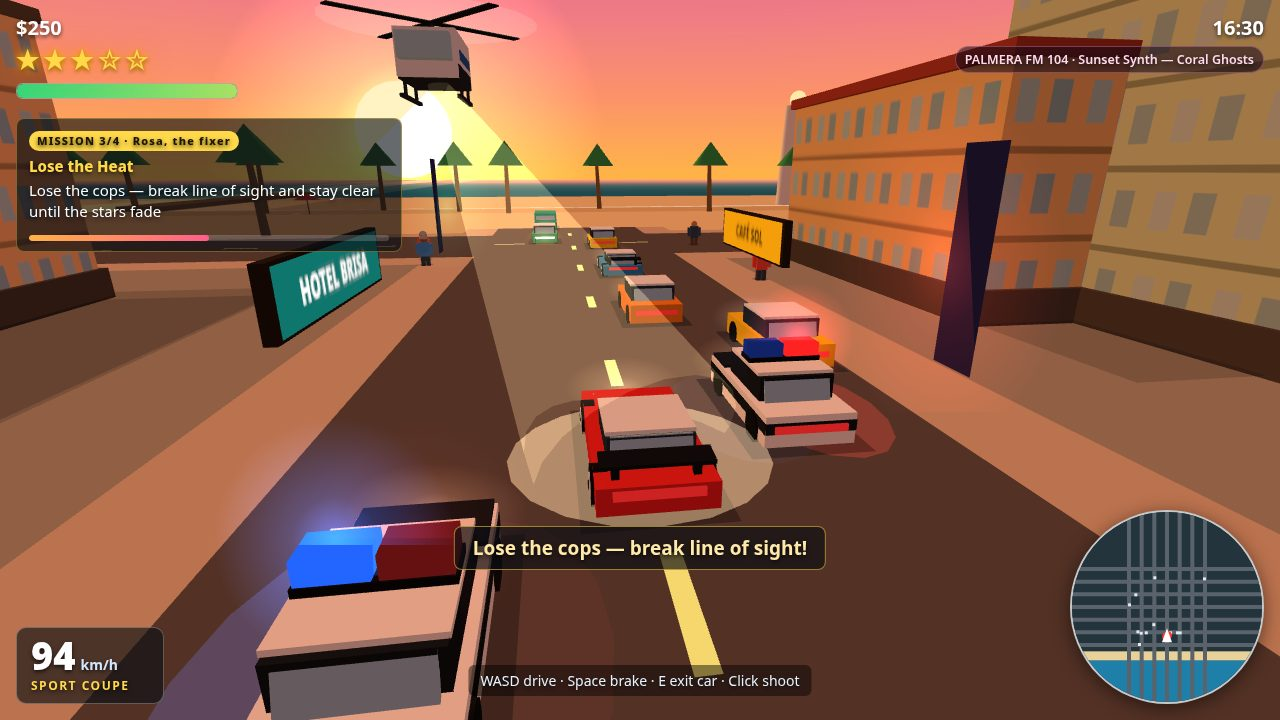
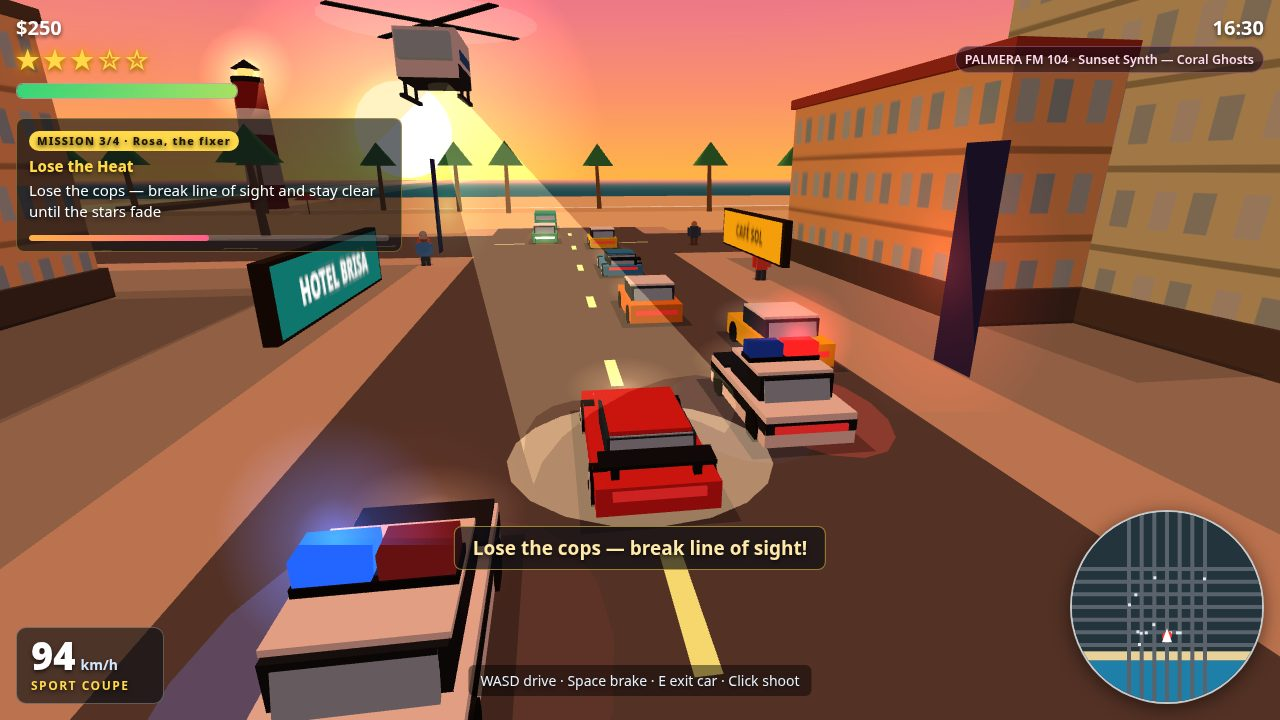
Palmera City v3.1: lighthouse reads at sheet scale (bands + sun-side staging), sport roof body-coloured coupe read

diff --git a/game/src/world.js b/game/src/world.js
@@ -602,17 +602,50 @@ export function createWorld(scene, rng) {
   }
 
   // Lighthouse point on the beach (mission 4 destination) + pier into the sea.
-  const lightMat = new THREE.MeshLambertMaterial({ color: 0xf2ede4 });
-  const tower = new THREE.Mesh(new THREE.CylinderGeometry(2, 2.6, 16, 10), lightMat);
-  tower.position.set(-40, 8, CITY.beachZ + 26);
-  group.add(tower);
+  // v3.1: staged on the sun side (x=+45) so the tower silhouettes against
+  // the bright sunset sky in the cover shot, and banded red/white so it
+  // reads as a lighthouse even at sheet scale. Tower 18 m + lamp room.
+  const LIGHTHOUSE_X = 45;
+  const LIGHTHOUSE_Z = CITY.beachZ + 26;
+  const towerH = 18;
+  const bands = 5;
+  const bandH = towerH / bands;
+  const bandRedMat = new THREE.MeshLambertMaterial({ color: 0x8e1f1f });
+  const bandWhiteMat = new THREE.MeshLambertMaterial({ color: 0xf2ede4 });
+  for (let i = 0; i < bands; i += 1) {
+    const t0 = i / bands;
+    const t1 = (i + 1) / bands;
+    const seg = new THREE.Mesh(
+      new THREE.CylinderGeometry(2.6 - 0.6 * t1, 2.6 - 0.6 * t0, bandH, 10),
+      i % 2 === 0 ? bandRedMat : bandWhiteMat,
+    );
+    seg.position.set(LIGHTHOUSE_X, bandH * (i + 0.5), LIGHTHOUSE_Z);
+    group.add(seg);
+  }
+  // Lamp room: dark base + bright bulb + dark cap, with a small glow sprite
+  // so the light point reads at sheet scale. The bulb stays the `lamp`
+  // mesh so main.js can keep flashing it.
+  const lampRoomMat = new THREE.MeshLambertMaterial({ color: 0x1c1c22 });
+  const lampBase = new THREE.Mesh(new THREE.CylinderGeometry(2.1, 2.1, 0.7, 10), lampRoomMat);
+  lampBase.position.set(LIGHTHOUSE_X, towerH + 0.35, LIGHTHOUSE_Z);
+  group.add(lampBase);
   const lamp = new THREE.Mesh(
-    new THREE.SphereGeometry(1.4, 10, 8),
-    new THREE.MeshBasicMaterial({ color: 0xffe9a8 }),
+    new THREE.SphereGeometry(1.15, 10, 8),
+    new THREE.MeshBasicMaterial({ color: 0xffe27a }),
   );
-  lamp.position.set(-40, 17, CITY.beachZ + 26);
+  lamp.position.set(LIGHTHOUSE_X, towerH + 1.35, LIGHTHOUSE_Z);
   group.add(lamp);
-  colliders.push({ minX: -43, maxX: -37, minZ: CITY.beachZ + 23, maxZ: CITY.beachZ + 29 });
+  const lampCap = new THREE.Mesh(new THREE.ConeGeometry(1.9, 1.3, 10), lampRoomMat);
+  lampCap.position.set(LIGHTHOUSE_X, towerH + 2.5, LIGHTHOUSE_Z);
+  group.add(lampCap);
+  const lampGlow = new THREE.Sprite(new THREE.SpriteMaterial({
+    map: glowTexture(), blending: THREE.AdditiveBlending,
+    transparent: true, depthWrite: false, fog: false,
+  }));
+  lampGlow.position.set(LIGHTHOUSE_X, towerH + 1.35, LIGHTHOUSE_Z);
+  lampGlow.scale.set(14, 14, 1);
+  group.add(lampGlow);
+  colliders.push({ minX: LIGHTHOUSE_X - 3, maxX: LIGHTHOUSE_X + 3, minZ: LIGHTHOUSE_Z - 3, maxZ: LIGHTHOUSE_Z + 3 });
   const pier = new THREE.Mesh(
     new THREE.BoxGeometry(6, 0.8, 60),
     new THREE.MeshLambertMaterial({ color: 0x8a6a42 }),

diff --git a/game/src/vehicles.js b/game/src/vehicles.js
@@ -90,9 +90,17 @@ export function makeCarMesh(color, police, kind = 'sedan') {
     // R3: the cabin read as a plain black slab on dark traffic cars. A pale
     // roof slab + pale-blue glass front/rear give every car a two-tone
     // glasshouse, so traffic reads as cars from behind and above, not boxes.
+    // v3.1: the sport slab is body-coloured (and slightly narrower than the
+    // cabin, so the dark glasshouse edges frame it), so roof + body read as
+    // one continuous coupe roofline from the rear-top chase angle instead
+    // of a pale panel floating over the black cabin ("targa"). Other kinds
+    // keep the pale slab — the R3 fix for black cabins on dark cars.
+    const sportRoof = kind === 'sport' && !police;
     const roofSlab = new THREE.Mesh(
-      new THREE.BoxGeometry(cabW + 0.04, 0.08, K.cabLen - 0.2),
-      new THREE.MeshLambertMaterial({ color: police ? PALETTE.policeWhite : 0xe8eef2 }),
+      new THREE.BoxGeometry(sportRoof ? cabW - 0.12 : cabW + 0.04, 0.08, K.cabLen - 0.2),
+      new THREE.MeshLambertMaterial({
+        color: police ? PALETTE.policeWhite : sportRoof ? color : 0xe8eef2,
+      }),
     );
     roofSlab.position.set(0, cabY + cabH / 2 + 0.04, K.cabZ);
     group.add(roofSlab);
